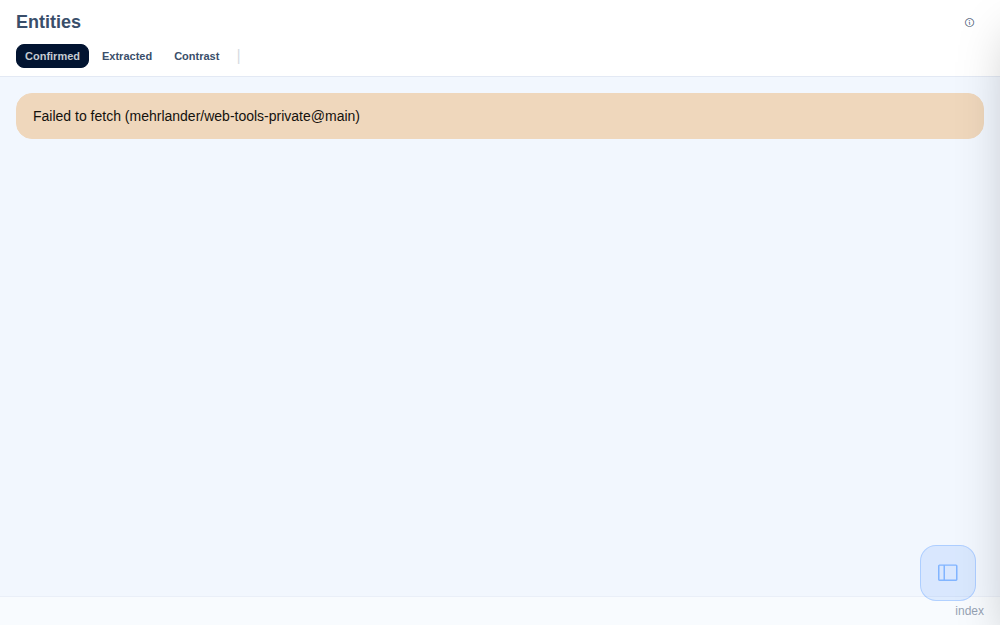
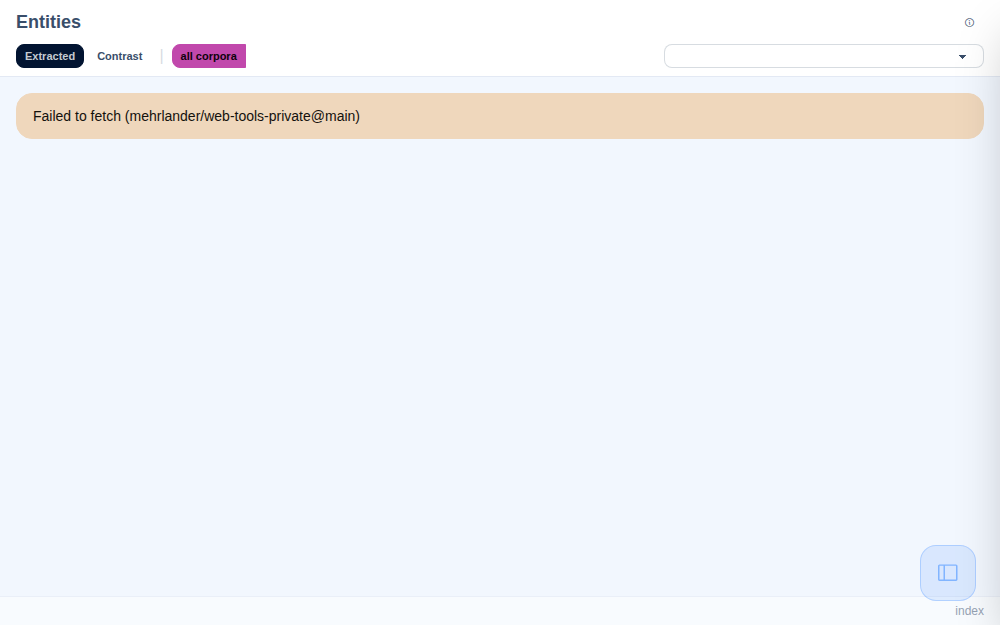
entities: remove the confirmed view
The page carried three views, and one of them did not mean anything. A name
was called "confirmed" when spaCy tagged it ORG and a curated estate table
also held it. Every name in that set was therefore a table key that appeared
in the prose, reachable by scanning the text for table keys with no model
involved. The recognizer contributed nothing to the set except discarding
table matches it had failed to tag, which makes it a strict subset of a plain
lookup. It was a dictionary hit with a handicap, presented as though the table
had graded the model.

Its headline figure was circular in the same way: "0 type errors in 24
judged" drew a sample from a set built by matching an agency table and then
checked whether the members were agencies. It read as the strongest number on
the page and was the emptiest, so it is withdrawn rather than restated with a
caveat. The dialog now says so explicitly, next to the 97.5% figure retired
earlier, because a number that was on a page is not unpublished by deleting
it.

What replaces it is nothing. The extraction view stands on its own with its
measured error rate, which is the honest result. A lookup over this prose may
still be worth having; it would run without the model, have higher recall than
this set did, and not be a tier above anything.

Also in this pass, since the dialog was open: the header line now carries files
scanned against files present, a denominator that survives the removal, and two
[…]

Changed region(s): [[0.031, 0.0608, 0.248, 0.1216]]

diff --git a/pages/entities.html b/pages/entities.html
@@ -14,11 +14,10 @@
   Built to docs/HTML-STYLE.md. The three rules that shaped it, since a first
   draft broke all three:
 
-    No stat cards. The header carries one compact line, and it carries
-    DENOMINATORS and a COMPARISON (520/36,400 names, 97.5% against 23%),
-    because the whole point of the confirmed set is its ratio to the raw
-    extraction. Four tiles reading 520 / 16,126 / 97.5% / 23% would say
-    nothing.
+    No stat cards. The header carries one compact line, and it carries a
+    DENOMINATOR (files scanned against files present), because the scope of
+    the scan is the fact about this page most likely to be misread. Four tiles
+    reading 177 / 291 / 5,414 / 19% would say nothing.
     No page prose. Method, caveats, and the precision table live in the info
     dialog. Where a qualifier has to stay attached to what it qualifies, it is
     a LABEL: the contrast section is headed "errors included" rather than
@@ -27,8 +26,21 @@
     Full-viewport takeover. This is a result set the reader moves through, so
     fixed inset-0, thin header, content, thin footer.
 
-  Accent discipline: `primary` means table-vouched throughout, `warning` means
-  a measured-weak number. Neither is used decoratively.
+  Accent discipline: `warning` means a measured-weak number, `primary` marks
+  the selected repo. Neither is used decoratively.
+
+  Removed 2026-08-05: a third view, "confirmed", listing the ORG names that
+  also appeared in a curated estate table (OFM's agency and fund registries,
+  spend-wa's vendor crosswalk, an acronym bridge). The framing was incoherent.
+  Every name in that set was a table key found in the prose, so it would be
+  reached by scanning the text for table keys with no model involved; the
+  recognizer contributed nothing to it except discarding table matches it had
+  failed to tag. A dictionary lookup with a handicap, presented as though the
+  table had graded the model. Its headline figure, 0 type errors in 24 sampled,
+  was circular: the sample was drawn from a set built by matching an agency
+  table, then checked for being agencies. A lookup over this prose may still be
+  worth having. It would be its own thing, run without the model, and not a
+  tier above the extraction.
 
   Data: mehrlander/web-tools-private state/entities.json, private because the
   names come from private repos. ?use=<ref> pins the lib chain; &data=<ref>
@@ -80,7 +92,7 @@
                 || window.__ref || 'main',
 
       idx: null, loading: true, error: '',
-      view: 'confirmed', repo: 'home', label: 'ORG', hideFlagged: false,
+      view: 'extracted', repo: 'home', label: 'ORG', hideFlagged: false,
       cell: 'name',   // contrast matrix cell: leading name, or counts
       corpus: '',     // '' = every corpus pooled; else one analysis_use value
 
@@ -108,24 +120,19 @@
         history.replaceState(null, '', `#${new URLSearchParams({view:this.view, repo:this.repo, label:this.label})}`);
       },
 
-      // The header line. Every figure carries its denominator or its
-      // counterpart, so the line states a relationship rather than four
-      // isolated numbers.
+      // The header line: what was read, against what was there. No precision
+      // figure here. It is per label and judged for only four of them, so it
+      // belongs in the row that shows one label at a time, and in the dialog
+      // with its sample size. A headline number with no denominator is the
+      // stat card this page is built to avoid.
       get headline() {
         if (!this.cur) return '';
-        const org = this.cur.labels?.ORG;
-        const conf = this.cur.confirmed || [];
-        const cm = conf.reduce((a,r) => a + r.mentions, 0);
-        if (!org) return `${this.cur.filesScanned} files · no organizations`;
-        // No precision figure here any more. 97.5% was measured on the
-        // pre-fix set that still contained markup-contaminated names, and the
-        // replacement (0 type errors in 24) does not compress into a headline
-        // without overclaiming. The dialog carries it with its sample size.
-        return `confirmed ${this.n(conf.length)}/${this.n(org.names)} names · `
-             + `${this.n(cm)}/${this.n(org.mentions)} mentions`;
+        const parts = [`${this.n(this.cur.filesScanned)}/${this.n(this.cur.filesTotal)} files scanned`];
+        if (this.cur.excludedByRegistry) parts.push(`${this.n(this.cur.excludedByRegistry)} excluded by registry`);
+        if (this.cur.skippedOversize) parts.push(`${this.n(this.cur.skippedOversize)} over 200KB`);
+        return parts.join(' · ');
       },
 
-      get confirmed() { return this.cur?.confirmed || [] },
       get labelsPresent() { return NAMED.filter(l => this.cur?.labels?.[l]) },
       get valueLabels() { return VALUE.filter(l => this.cur?.labels?.[l]) },
       // A corpus view reads the per-corpus counts the scan tagged; the empty
@@ -176,7 +183,7 @@
     </div>
 
     <div class="flex items-center gap-1 mt-2 overflow-x-auto">
-      <template x-for="v in ['confirmed','extracted','contrast']" :key="v">
+      <template x-for="v in ['extracted','contrast']" :key="v">
         <button class="btn btn-xs capitalize shrink-0"
                 :class="view===v ? 'btn-neutral' : 'btn-ghost'"
                 @click="go({view:v})" x-text="v"></button>
@@ -191,7 +198,7 @@
            rendered its options, so the control showed "all corpora" while the
            data underneath was correctly filtered. Buttons also match the view
            and repo controls beside them. -->
-      <div class="join shrink-0" x-show="view!=='confirmed'">
+      <div class="join shrink-0">
         <button class="btn btn-xs join-item" :class="!corpus && 'btn-accent'"
                 @click="corpus=''">all corpora</button>
         <template x-for="c in corpora" :key="c">
@@ -215,21 +222,6 @@
 
     <template x-if="idx">
     <div class="max-w-5xl">
-
-      <!-- CONFIRMED: vouched for by a curated table -->
-      <section x-show="view==='confirmed'">
-        <div x-show="!confirmed.length" class="text-xl leading-8 opacity-60">
-          Nothing table-vouched here. For a tooling repo that is the right answer.
-        </div>
-        <div class="flex flex-wrap gap-x-5 gap-y-2" x-show="confirmed.length">
-          <template x-for="r in confirmed" :key="r.name">
-            <span class="text-xl leading-8">
-              <span x-text="r.name"></span>
-              <span class="text-xs opacity-40 tabular align-middle" x-text="r.mentions"></span>
-            </span>
-          </template>
-        </div>
-      </section>
 
       <!-- EXTRACTED: everything the model returned -->
       <section x-show="view==='extracted'">
@@ -357,37 +349,41 @@
           <p class="font-medium mb-1">Measured precision</p>
           <table class="table table-xs">
             <tbody>
-              <tr><td>table-confirmed <code>ORG</code></td><td class="text-right tabular font-semibold">0 errors</td><td class="opacity-50 text-right">24 judged</td></tr>
               <tr><td><code>ORG</code>, top 10 per repo</td><td class="text-right tabular">23%</td><td class="opacity-50 text-right">70 judged</td></tr>
               <tr><td><code>ORG</code>, stratified</td><td class="text-right tabular">19%</td><td class="opacity-50 text-right">68 judged</td></tr>
               <tr><td><code>PERSON</code>, top 10 per repo</td><td class="text-right tabular">7%</td><td class="opacity-50 text-right">67 judged</td></tr>
               <tr><td><code>PERSON</code>, stratified</td><td class="text-right tabular">9%</td><td class="opacity-50 text-right">69 judged</td></tr>
             </tbody>
           </table>
-          <p class="opacity-70 mt-1">One rater, against the OntoNotes definitions. Zero
-          errors in 24 bounds the confirmed set's rate loosely; it is not a claim of
-          100%. An earlier 97.5% was measured before the masking fix, on a set still
-          carrying names like <code>| Governor's Office</code>, and is retired. The
-          head is not cleaner than the tail. Every other label is unjudged, and reads
-          so. Flag rate is a different measurement: Pearson r between the two is
+          <p class="opacity-70 mt-1">One rater, against the OntoNotes definitions. The
+          head is not cleaner than the tail, which rules out taking the top of the list
+          and calling it clean. Every other label is unjudged, and reads so. Flag rate
+          is a different measurement: Pearson r between the two is
           <strong>-0.54</strong> over 14 repo/label pairs, so shape explains under a
           third of the variation.</p>
+          <p class="opacity-70 mt-2">These are the only precision figures. Two others
+          appeared here previously and are withdrawn rather than corrected: 97.5%,
+          measured before the masking fix on a set still carrying names like
+          <code>| Governor's Office</code>; and "0 type errors in 24 judged" for names
+          matched against a curated table, which measured nothing, the sample having
+          been drawn from a set built by matching an agency table and then checked for
+          being agencies.</p>
         </div>
 
         <div>
-          <p class="font-medium mb-1">Confirmation, and what it costs</p>
-          <p class="opacity-70">A name is confirmed when a curated estate table
-          vouches for it (OFM's agency and fund registries, spend-wa's vendor
-          crosswalk, a 34-entry acronym bridge) <em>and</em> the recognizer's type
-          agrees with the table's. 474 of 38,999 names, carrying 9% of mentions: a
-          trustworthy core, not an index.</p>
-          <p class="opacity-70 mt-2"><strong>What is scanned is markdown prose only.</strong>
-          In the data repos that is the documentation layer, not the corpus: wa-bills
-          holds 32 markdown files against 138,896 total, so its profile describes what
-          its notes discuss, not the legislative corpus it stores. The content registry
-          that <code>termlab</code> consults is not yet wired in here, and in budget-wa
-          it would mark 108 of the 177 scanned files as supplied source material rather
-          than the repo's own voice.</p>
+          <p class="font-medium mb-1">What is scanned</p>
+          <p class="opacity-70"><strong>Markdown prose only.</strong> In the data repos
+          that is the documentation layer, not the corpus: wa-bills holds 32 markdown
+          files in a repo of 138,896, so its profile describes what its notes discuss,
+          not the legislative corpus it stores.</p>
+          <p class="opacity-70 mt-2">Each repo's <code>data/design/content.csv</code>
+          decides membership. A file declared <code>exclude</code> is dropped, and every
+          extraction is tagged with the corpus its file belongs to, which is what the
+          corpus buttons filter on. Sampling runs per corpus, so a large one cannot
+          crowd out a small one. The split matters most where a repo mostly holds
+          somebody else's words: 108 of budget-wa's 176 scanned files are declared
+          supplied source material rather than the repo's own voice, and 1,200 of
+          fn-data's 1,258.</p>
         </div>
 
         <div>
@@ -403,22 +399,9 @@
               </template>
             </tbody>
           </table>
-          <p class="opacity-70 mt-1">Skipped files are supplied material: enrolled bill
-          text, ACFR extracts, raw transcripts. fn-data is a 1,500-file sample.</p>
-        </div>
-
-        <div>
-          <p class="font-medium mb-1">Known collisions</p>
-          <ul class="list-disc ml-5 opacity-70 space-y-1">
-            <li><code>UTC</code> is deliberately absent from the acronym bridge: here it
-            is Coordinated Universal Time, 3,331 times, not the Utilities and
-            Transportation Commission, zero.</li>
-            <li>Short acronym keys match case, or folding turns every "doc" into the
-            Department of Corrections: 73 of web-tools' 89 confirmed mentions, before
-            the fix.</li>
-            <li><code>General Fund</code> is a fund the recognizer typed <code>ORG</code>.
-            Type disagreements are excluded rather than counted: 62 of 582.</li>
-          </ul>
+          <p class="opacity-70 mt-1">Totals are markdown files present, not files in the
+          repo. Skipped files are supplied material: enrolled bill text, ACFR extracts,
+          raw transcripts. fn-data is a 1,258-file sample of its 7,938.</p>
         </div>
       </div>
       </template>
